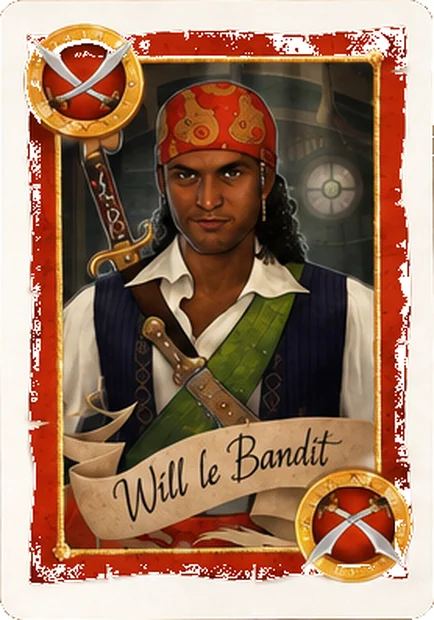
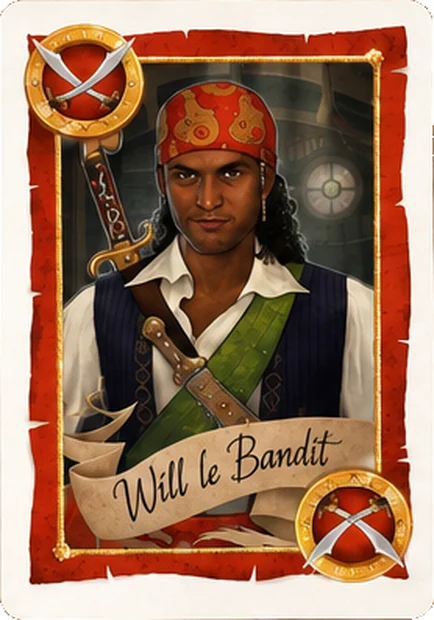
Skull King : la Raie reprise sur la planche d'extension, les coins blanchis par connexité
Blanchir les coins arrondis ne peut pas se décider sur la couleur. La règle
d'origine repeignait du blanc du liseré, dans la couronne extérieure de la
découpe, tout ce qui ressemblait au fond de planche. Sur un plan de bois elle
passait — rien de brun ne touche le liseré. Sur le drap bleu de l'extension,
non : la Raie Tachetée est une carte bleue du même bleu que le drap, et la
règle lui mangeait des morceaux de cadre doré jusqu'au milieu de ses bords.

La ressemblance de couleur ne dit pas si un pixel est dehors ou dedans, la
connexité si : on ne blanchit plus que ce qui touche le bord de la découpe et
tient d'un seul tenant jusqu'à lui. Le liseré blanc fait le tour complet de
chaque carte, donc aucun pixel d'illustration n'est relié au dehors.

La Raie sort désormais de `extension-sk.png`, celle qu'on avait sous les yeux,
et plus de `extras-extras.png`. Les cinq planches spéciales sont recoupées :
quatorze fichiers changent, cinq sont identiques au bit près. Le plan de bois
y gagne aussi — le Skull King, Harry et Rosie perdaient des entames de bord,
de bannière et de chevelure.

Les quatre familles numérotées gardent l'ancien blanchiment : leurs planches
sources ne sont plus dans skin/src. Les y remettre et relancer
briefs/decouper-planche-numerotees.py les alignera.

diff --git a/briefs/decouper-planche-speciales.py b/briefs/decouper-planche-speciales.py
@@ -49,17 +49,17 @@ PLANCHES = {
         None,                   # seconde Rosie — aucune carte où l'employer
         None,                   # Will en double
     ],
-    # L'extension, deux rangées de cinq sur drap bleu. Une seule case en
-    # sort : le reste de la planche est soit déjà peint ailleurs (la Raie),
-    # soit repris en mieux par extension-2-sk (les quatre du haut), soit une
-    # variante non retenue (l'autre singe, les deux autres canons).
+    # L'extension, deux rangées de cinq sur drap bleu. Trois cases en
+    # sortent : le reste est soit repris en mieux par extension-2-sk (les
+    # quatre du haut), soit une variante non retenue (l'autre singe, les deux
+    # autres canons).
     'extension-sk.png': [
         None,                   # Coffre de Davy Jones — repris sur la planche 2
         None,                   # Mat le Forban — repris sur la planche 2
         None,                   # Mary Thorne — reprise sur la planche 2
         None,                   # Marcher sur la Planche — repris sur la planche 2
         'classique-salve',      # Dernière Salve : la bordée tirée du navire
-        None,                   # la Raie Tachetée, déjà peinte sur extras-extras
+        'classique-raie',       # la Raie Tachetée et son cerf-volant
         'classique-joker',      # Joker/Wild 15 : le singe couronné, son 15 peint
         None,                   # canon dans la cale — variante non retenue
         None,                   # canon au ras de l'eau — variante non retenue
@@ -81,7 +81,7 @@ PLANCHES = {
         'classique-kraken',     # les tentacules sur le navire
         'classique-butin',      # les piles de doublons dans la cale
         'classique-baleine',    # la Baleine blanche
-        'classique-raie',       # la Raie Tachetée et son cerf-volant
+        None,                   # la Raie Tachetée — on prend celle d'extension-sk
         'classique-tigresse',   # La Tigresse
     ],
 }

diff --git a/briefs/decouper-planche-numerotees.py b/briefs/decouper-planche-numerotees.py
@@ -23,6 +23,7 @@ from pathlib import Path
 
 import numpy as np
 from PIL import Image
+from scipy import ndimage
 
 RACINE = Path(__file__).resolve().parent.parent
 SRC = RACINE / 'public/assets/skin/src'
@@ -105,12 +106,26 @@ def carte(a, x0, y0, x1, y1, bois):
     c = rogner_ombre(a[y0:y1, x0:x1].copy())
     h, w = c.shape[:2]
 
-    # Coins arrondis : le bois qui s'y voit passe au blanc du liseré. On ne
-    # regarde que la couronne extérieure — le coffre au centre est lui aussi
-    # un brun de bois, il ne doit pas y passer.
+    # Coins arrondis : le fond de planche qui s'y voit passe au blanc du
+    # liseré. On ne blanchit que ce qui TOUCHE le bord de la découpe et tient
+    # d'un seul tenant jusqu'à lui — les quatre coins, et rien d'autre.
+    #
+    # La ressemblance de couleur ne suffit pas : elle ne dit pas si le pixel
+    # est dehors ou dedans. Sur un plan de bois ça passait (rien de brun ne
+    # touche le liseré), la couronne extérieure suffisait à écarter le coffre
+    # du centre. Sur le drap bleu de la planche d'extension, non — la Raie
+    # Tachetée est une carte bleue, du même bleu que le drap, et la règle lui
+    # mangeait des morceaux de cadre doré et de fond, jusqu'au milieu de ses
+    # bords. Le liseré blanc, lui, fait le tour complet de chaque carte : par
+    # construction, aucun pixel de l'illustration n'est relié au dehors.
     yy, xx = np.mgrid[0:h, 0:w]
     bord = (xx < w * BORD) | (xx > w * (1 - BORD)) | (yy < h * BORD) | (yy > h * (1 - BORD))
-    c[bord & (np.linalg.norm(c - bois, axis=2) < 70)] = 255
+    proche = bord & (np.linalg.norm(c - bois, axis=2) < 70)
+    lab, n = ndimage.label(proche)
+    dehors = set(lab[0].tolist()) | set(lab[-1].tolist()) | set(lab[:, 0].tolist()) | set(lab[:, -1].tolist())
+    dehors.discard(0)
+    if dehors:
+        c[np.isin(lab, list(dehors))] = 255
     return Image.fromarray(c.astype(np.uint8), 'RGB')
 
 

diff --git a/briefs/habillage-taverne.md b/briefs/habillage-taverne.md
@@ -169,8 +169,8 @@ Format 1× : **84 × 118 px** → générer en 3×, soit ~252 × 354.
 | `dos-cartes-sk.png` | 1 ✅ | Dos de carte, motif symétrique. Sort à 512 px de large : il ne se voit jamais à plus de 84 px |
 | `cartes-{tresor,violettes,atouts,perroquets}-sk.png` | 4 ✅ | Les quatre familles numérotées, **une planche de 14 cartes chacune** : Trésor (jaune), Carte au trésor (violet), Pavillon noir (l'atout) et Perroquets (vert). Le chiffre est peint dans les médaillons, donc pas de cadre vide possible. Découpées par `briefs/decouper-planche-numerotees.py` |
 | `extra-cards-sk.png` | 1 ✅ | **Planche des spéciales classiques**, dix cases en deux rangées de cinq : Fuite, Skull King, les deux Sirènes, puis Will, Harry, Rosie, Rascal — et deux doublons sans emploi (une seconde Rosie, un second Will). Découpée par `briefs/decouper-planche-speciales.py`, qui réutilise la grille des familles numérotées |
-| `extras-extras.png` | 1 ✅ | **Seconde planche**, cinq cases en une rangée, sur drap bleu : Kraken, Butin, Baleine blanche, Raie Tachetée, Tigresse. Même script — le repérage isole ce qui n'est pas le fond, échantillonné dans les marges, et se moque que le fond soit du bois ou du drap |
-| `extension-sk.png` | 1 ✅ | **L'extension**, dix cases en deux rangées de cinq. Une seule en sort : la Dernière Salve (la bordée tirée du navire) et le Joker (le singe couronné). Le reste est soit déjà peint ailleurs (la Raie), soit repris en mieux par la planche suivante, soit une variante non retenue |
+| `extras-extras.png` | 1 ✅ | **Seconde planche**, cinq cases en une rangée, sur drap bleu : Kraken, Butin, Baleine blanche, Raie Tachetée, Tigresse. Même script — le repérage isole ce qui n'est pas le fond, échantillonné dans les marges, et se moque que le fond soit du bois ou du drap. Quatre cases en sortent : la Raie est reprise sur `extension-sk` |
+| `extension-sk.png` | 1 ✅ | **L'extension**, dix cases en deux rangées de cinq. Trois en sortent : la Dernière Salve (la bordée tirée du navire), le Joker (le singe couronné) et la **Raie Tachetée** au cerf-volant. Le reste est soit repris en mieux par la planche suivante, soit une variante non retenue |
 | `extension-2-sk.png` | 1 ✅ | Les quatre sujets du haut de la planche précédente, repeints : Coffre de Davy Jones, Mat le Forban, Mary Thorne, Marcher sur la Planche. Ce sont ceux-là qui entrent dans le jeu |
 | `mary-thorne.png` | 1 ✅ | Mary Thorne repeinte, livrée **carte seule** sur un carré de couleur. Le script recadre d'abord sur ce carré (`CARTE_SEULE`) : la grille échantillonne le fond dans les marges et y trouverait sinon le blanc de la page, ramenant le carré entier comme une carte |
 | illustrations spéciales restantes | 1 | Juanita Jade |
@@ -220,6 +220,24 @@ c'est l'endroit le moins recouvert quand les cartes du pli se chevauchent. Ce
 qu'il dit n'est pas une couleur mais une fonction, et il le dit avec l'image
 exacte que le joueur a cliquée pour choisir : le même pavillon, les mêmes
 sabres.
+
+**Blanchir les coins ne se fait pas sur la couleur.** Les coins des cartes sont
+arrondis dans la planche, et c'est le fond qui s'y voit : on le repeint du
+blanc du liseré, `border-radius` refaisant l'arrondi à l'écran. La règle
+d'origine blanchissait, dans la couronne extérieure de la découpe, tout ce qui
+ressemblait au fond. Sur un plan de bois elle passait — rien de brun ne touche
+le liseré. Sur le drap bleu de la planche d'extension, non : la Raie Tachetée
+est une carte bleue du même bleu que le drap, et la règle lui mangeait des
+morceaux de cadre doré jusqu'au milieu de ses bords.
+
+La ressemblance de couleur ne dit pas si un pixel est dehors ou dedans. C'est
+la **connexité** qui le dit : on ne blanchit que ce qui touche le bord de la
+découpe et tient d'un seul tenant jusqu'à lui. Le liseré blanc fait le tour
+complet de chaque carte, donc par construction aucun pixel d'illustration
+n'est relié au dehors. Corrigé dans `briefs/decouper-planche-numerotees.py`,
+d'où toutes les découpes tirent leur `carte()`. Les cartes du plan de bois y
+gagnent aussi : elles perdaient des entames de bannière et de chevelure, du
+brun trop proche de celui de la planche.
 
 Les planches se génèrent d'un coup, les 14 cartes ensemble, en deux rangées de
 sept sur un plan de travail en bois : c'est ce qui leur donne le même cadre et
